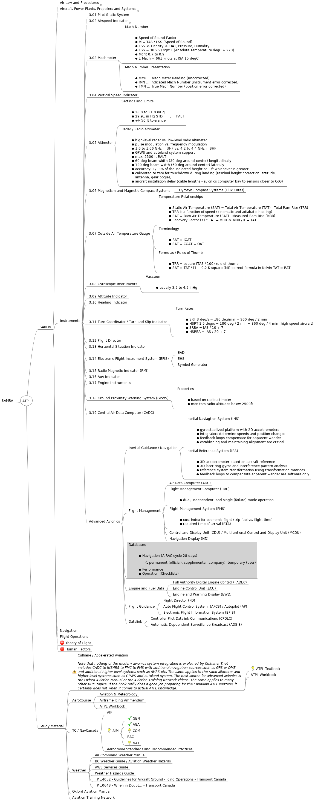
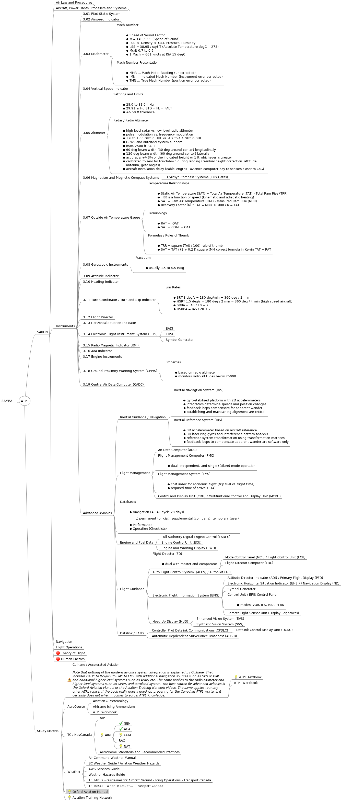
extended ATPL mind map

diff --git a/ATPL/ATPL.mm b/ATPL/ATPL.mm
@@ -4983,8 +4983,7 @@
       </li>
     </ul>
   </body>
-</html>
-</richcontent>
+</html></richcontent>
 </node>
 </node>
 <node CREATED="1571434581102" ID="ID_927901678" MODIFIED="1571434607037" TEXT="3.06 Magnetism and Magnetic Compass Systems">
@@ -5174,8 +5173,7 @@
       </li>
     </ul>
   </body>
-</html>
-</richcontent>
+</html></richcontent>
 </node>
 </node>
 <node CREATED="1571439120077" ID="ID_1500989687" MODIFIED="1571512333535">
@@ -5188,8 +5186,7 @@
       3.19 Central Air Data Computer (CADC)
     </p>
   </body>
-</html>
-</richcontent>
+</html></richcontent>
 </node>
 <node CREATED="1571511813964" ID="ID_1899769253" MODIFIED="1571511832955" TEXT="Advanced Avionics">
 <node CREATED="1571511847731" ID="ID_1043332875" MODIFIED="1571511933660" TEXT="Inertial Guidance / Navigation">
@@ -5220,8 +5217,7 @@
       </li>
     </ul>
   </body>
-</html>
-</richcontent>
+</html></richcontent>
 </node>
 <node CREATED="1571511867118" ID="ID_338059144" MODIFIED="1571512761610">
 <richcontent TYPE="NODE"><html>
@@ -5250,8 +5246,7 @@
       </li>
     </ul>
   </body>
-</html>
-</richcontent>
+</html></richcontent>
 </node>
 </node>
 <node CREATED="1571511876738" ID="ID_151244063" MODIFIED="1571511881224" TEXT="Flight Management">
@@ -5274,8 +5269,7 @@
       </li>
     </ul>
   </body>
-</html>
-</richcontent>
+</html></richcontent>
 </node>
 <node CREATED="1571511912476" ID="ID_215595653" MODIFIED="1571516267572">
 <richcontent TYPE="NODE"><html>
@@ -5298,11 +5292,9 @@
       </li>
     </ul>
   </body>
-</html>
-</richcontent>
+</html></richcontent>
 </node>
 <node CREATED="1571513515281" ID="ID_1744878599" MODIFIED="1571513565149" TEXT="Control and Display Unit (CDU) / Multifuntional Control and Display Unit (MCDU)"/>
-<node CREATED="1571513740236" ID="ID_361058262" MODIFIED="1571513749133" TEXT="Navigation Display (ND)"/>
 </node>
 <node CREATED="1571512526050" ID="ID_7721974" MODIFIED="1571516301368">
 <richcontent TYPE="NODE"><html>
@@ -5334,8 +5326,7 @@
       </li>
     </ul>
   </body>
-</html>
-</richcontent>
+</html></richcontent>
 </node>
 <node CREATED="1571512616289" ID="ID_313198083" MODIFIED="1571512628497" TEXT="Engine and Fuel Data">
 <node CREATED="1571512631013" ID="ID_1477242060" MODIFIED="1571512829394">
@@ -5348,8 +5339,7 @@
       Full Authority Digital Engine Control (FADEC)
     </p>
   </body>
-</html>
-</richcontent>
+</html></richcontent>
 </node>
 <node CREATED="1571512651917" ID="ID_198224209" MODIFIED="1571512844574">
 <richcontent TYPE="NODE"><html>
@@ -5361,13 +5351,12 @@
       Engine Control Unit (ECU)
     </p>
   </body>
-</html>
-</richcontent>
+</html></richcontent>
 </node>
 <node CREATED="1571513597789" ID="ID_1954355217" MODIFIED="1571513615931" TEXT="Engine and Warning Display (EWD)"/>
 </node>
 <node CREATED="1571512691326" ID="ID_1356159857" MODIFIED="1571512696024" TEXT="Flight Guidance">
-<node CREATED="1571512701913" ID="ID_1067228576" MODIFIED="1571512857292">
+<node CREATED="1571512701913" ID="ID_1067228576" MODIFIED="1571526032383">
 <richcontent TYPE="NODE"><html>
   <head>
     
@@ -5376,9 +5365,19 @@
     <p>
       Flight Director (FD)
     </p>
+    <p>
+      
+    </p>
+    <ul>
+      <li>
+        dual with master and comparator
+      </li>
+    </ul>
   </body>
 </html>
 </richcontent>
+<node CREATED="1571526470308" ID="ID_1676017106" MODIFIED="1571526828129" TEXT="Mode Control Panel (MCP) / Flight Control Unit (FCU)"/>
+<node CREATED="1571526659877" ID="ID_674644820" MODIFIED="1571526672077" TEXT="Flight Director Computer (FDC)"/>
 </node>
 <node CREATED="1571512714238" ID="ID_142311553" MODIFIED="1571512884973">
 <richcontent TYPE="NODE"><html>
@@ -5390,13 +5389,80 @@
       Auto Flight Control System&#160;&#160;(AFCS) / Autopilot (AP)
     </p>
   </body>
+</html></richcontent>
+</node>
+<node CREATED="1571513704646" ID="ID_507011782" MODIFIED="1571513720752" TEXT="Electronic Flight Information System (EFIS)">
+<node CREATED="1571516673519" ID="ID_1100983526" MODIFIED="1571516800491">
+<richcontent TYPE="NODE"><html>
+  <head>
+    
+  </head>
+  <body>
+    <p>
+      Attitude Director Indicator (ADI) / Primary Flight Display (PFD)
+    </p>
+  </body>
 </html>
 </richcontent>
 </node>
-<node CREATED="1571513704646" ID="ID_507011782" MODIFIED="1571513720752" TEXT="Electronic Flight Information System (EFIS)"/>
+<node CREATED="1571516689441" ID="ID_365662995" MODIFIED="1571516868895" TEXT="Electronic Horizontal Situation Indicator (EHSI) / Navigation Display (ND)"/>
+<node CREATED="1571516974599" ID="ID_1974457970" MODIFIED="1571516979150" TEXT="Symbol Generator"/>
+<node CREATED="1571516984538" ID="ID_1922557614" MODIFIED="1571517873919">
+<richcontent TYPE="NODE"><html>
+  <head>
+    
+  </head>
+  <body>
+    <p>
+      Control Unit / EFIS Control Panel
+    </p>
+    <p>
+      
+    </p>
+    <ul>
+      <li>
+        modes: VOR, ILS, MAP, PLAN
+      </li>
+    </ul>
+  </body>
+</html>
+</richcontent>
 </node>
-<node CREATED="1571513985884" ID="ID_1528798839" MODIFIED="1571513996878" TEXT="Datalink">
-<node CREATED="1571514001509" ID="ID_573452484" MODIFIED="1571514021599" TEXT="Controller Pilot Datalink Communications (CPDLC)"/>
+<node CREATED="1571517557366" ID="ID_314177880" MODIFIED="1571517581896">
+<richcontent TYPE="NODE"><html>
+  <head>
+    
+  </head>
+  <body>
+    <p>
+      Remote Light Sensor Unit (Display Brightness)
+    </p>
+  </body>
+</html>
+</richcontent>
+</node>
+</node>
+<node CREATED="1571521886441" ID="ID_1981135394" MODIFIED="1571524360736" TEXT="Head Up Display (HUD)">
+<node CREATED="1571524312636" ID="ID_199638551" MODIFIED="1571524330314" TEXT="Enhanced Vision System (EVS)"/>
+<node CREATED="1571524334787" ID="ID_1038362794" MODIFIED="1571524348210" TEXT="Synthetic Vision System (SVS)"/>
+</node>
+</node>
+<node CREATED="1571513985884" ID="ID_1528798839" MODIFIED="1571524658071" TEXT="Datalink / FANS">
+<node CREATED="1571514001509" ID="ID_573452484" MODIFIED="1571514021599" TEXT="Controller Pilot Datalink Communications (CPDLC)">
+<node CREATED="1571524948493" ID="ID_1574568340" MODIFIED="1571525015271">
+<richcontent TYPE="NODE"><html>
+  <head>
+    
+  </head>
+  <body>
+    <p>
+      Datalink Control Display Unit (DCDU)
+    </p>
+  </body>
+</html>
+</richcontent>
+</node>
+</node>
 <node CREATED="1571514026350" ID="ID_354818846" MODIFIED="1571514057039" TEXT="Automatic Depdendent Surveillance Broadcast (ADS-B)"/>
 </node>
 </node>
@@ -5436,8 +5502,7 @@
       <i>Note that nothing of the modern avionics system integration is explained by Culhane. That includes CADC to INS/IRS to FMC to FMS with additional navigation sources such as GPS or DME and additional higher level systems such as AHRS etc. The same applies to the radio altimeter and higher level systems such as GPWS and autoland system. The best source for advanced avionics is the Oxford Aviation Manual or the Aviation Training Network videos. The same applies to many other ATPL topics. If the book really does a good job preparing for the Canadian ATPL writtens, it certainly does not when it comes to actual ATPL knowledge.</i>
     </p>
   </body>
-</html>
-</richcontent>
+</html></richcontent>
 <icon BUILTIN="messagebox_warning"/>
 <node CREATED="1568671752273" ID="ID_386732757" MODIFIED="1568672230580" TEXT="ATPL Textbook">
 <icon BUILTIN="idea"/>
@@ -5477,8 +5542,12 @@
 <node CREATED="1568672156942" ID="ID_1232469084" MODIFIED="1568672159670" TEXT="TP 14052 - Guidelines for Aircraft Ground - Icing Operations - Transport Canada"/>
 <node CREATED="1568672206364" ID="ID_556857642" MODIFIED="1568672208314" TEXT="TP 10643 - When in Doubt... - Transport Canada"/>
 </node>
-<node CREATED="1571511735162" ID="ID_564986092" MODIFIED="1571511742592" TEXT="Oxford Aviation Manual"/>
-<node CREATED="1571511750823" ID="ID_1637978389" MODIFIED="1571511759057" TEXT="Aviation Training Network"/>
+<node CREATED="1571511735162" ID="ID_564986092" MODIFIED="1571527269317" TEXT="Oxford Aviation Manual">
+<icon BUILTIN="idea"/>
+</node>
+<node CREATED="1571511750823" ID="ID_1637978389" MODIFIED="1571527253576" TEXT="Aviation Training Network">
+<icon BUILTIN="idea"/>
+</node>
 </node>
 </node>
 </map>
